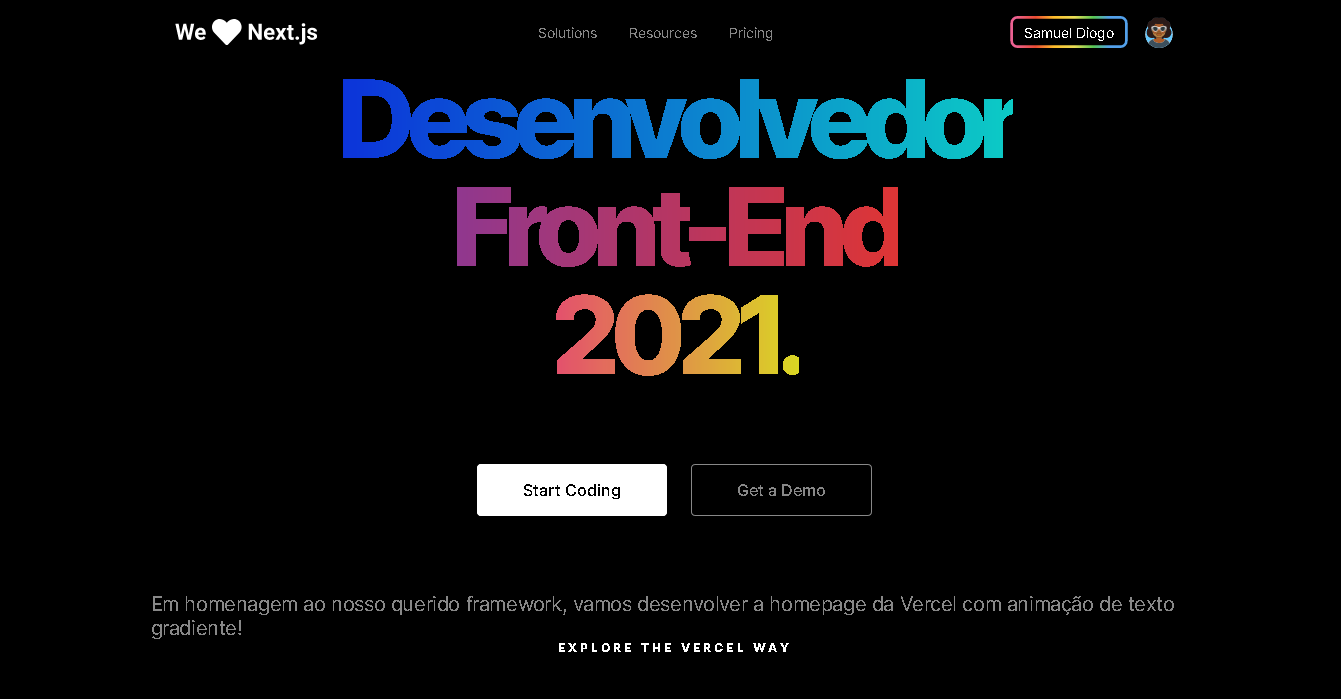
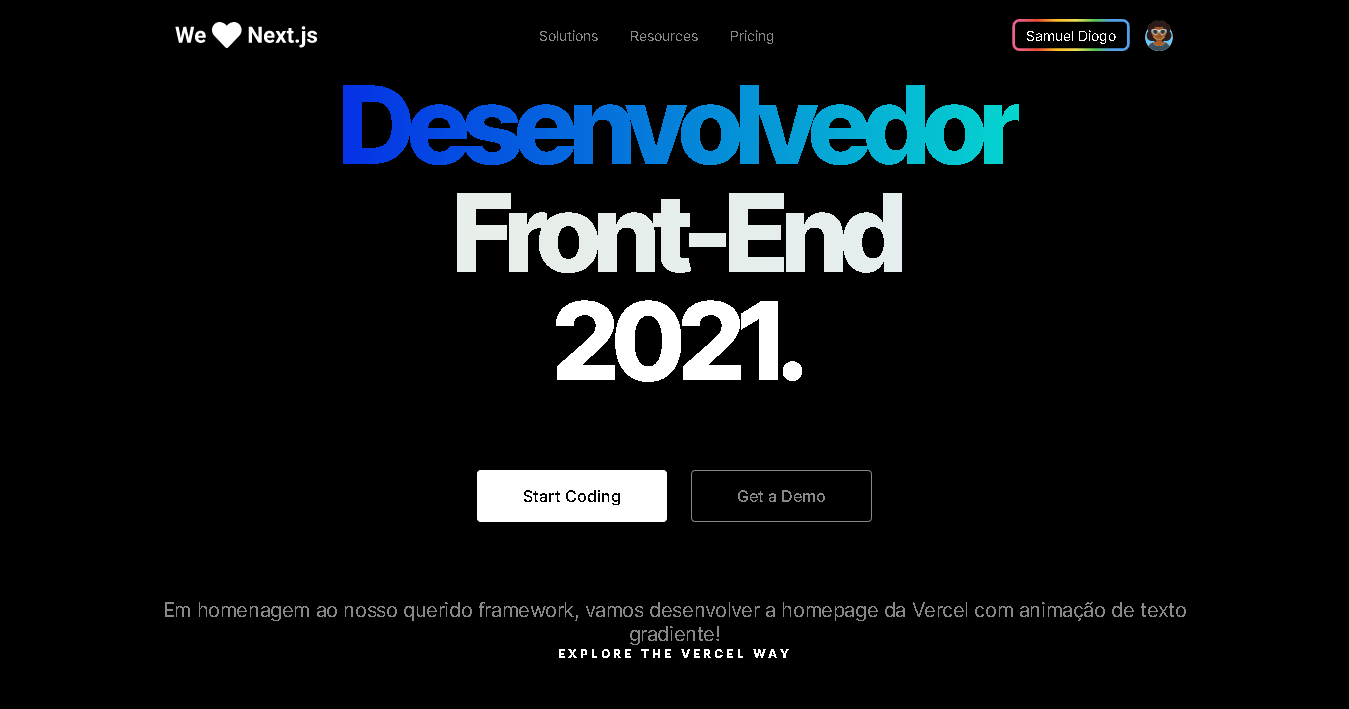
projeto concluido responsividade feita

diff --git a/styles/styles.css b/styles/styles.css
@@ -92,8 +92,9 @@ header .right {
 }
 
 header .right .conf {
-  height: 3.2rem;
+  height: 3.8rem;
   position: relative;
+  display: flex;
 }
 
 header .right .conf span {
@@ -107,16 +108,18 @@ header .right .conf span {
   width: -webkit-max-content;
   width: -moz-max-content;
   width: max-content;
+  display: flex;
 }
 
 header .right .avatar {
-  margin-left: 0.8rem;
+  margin-left: 0.6rem;
   width: 3.2rem;
   height: 3.2rem;
+  display: flex;
 }
 
 @-webkit-keyframes colorCycle {
-  0% {
+  0%, 45% {
     -webkit-filter: brightness(0) invert(1);
             filter: brightness(0) invert(1);
 
@@ -124,7 +127,7 @@ header .right .avatar {
 }
 
 @keyframes colorCycle {
-  0%, 55% {
+  0%, 45% {
     -webkit-filter: brightness(0) invert(1);
             filter: brightness(0) invert(1);
   }
@@ -236,6 +239,7 @@ main h2 {
   font-size: 2rem;
   font-weight: 400;
   letter-spacing: -0.04rem;
+  text-align: center;
 }
 
 footer {
@@ -247,4 +251,47 @@ footer {
   text-align: center;
   margin-bottom: 4.8rem;
 }
+
+@media (max-width: 768px) {
+  html {
+    font-size: 55%;
+  }
+ }
+ @media (max-width: 630px) {
+  html {
+    font-size: 50%;
+  }
+ }
+ @media (max-width: 540px) {
+  html {
+    font-size: 45%;
+    }
+    header .right .conf span{
+      left: 40%;
+    }
+  }
+  @media (max-width: 477px) {
+    html {
+      font-size: 40%;
+      }
+      header .right .conf span{
+        left: 37%;
+      }
+    }
+    @media (max-width: 435px) {
+      html {
+        font-size: 35%;
+        }
+        header .right .conf span{
+          left: 30%;
+        }
+      }
+      @media (max-width: 375px) {
+        html {
+          font-size: 28%;
+          }
+          header .right .conf span{
+            left: 26%;
+          }
+        }
 /*# sourceMappingURL=styles.css.map */

diff --git a/styles/_main.scss b/styles/_main.scss
@@ -1,5 +1,5 @@
 @keyframes colorCycle{
- 0% ,55% {
+ 0%, 45% {
     filter: brightness(0) invert(1);
  }
 }
@@ -92,3 +92,4 @@ h1{
         text-align: center;
     }
 }
+
